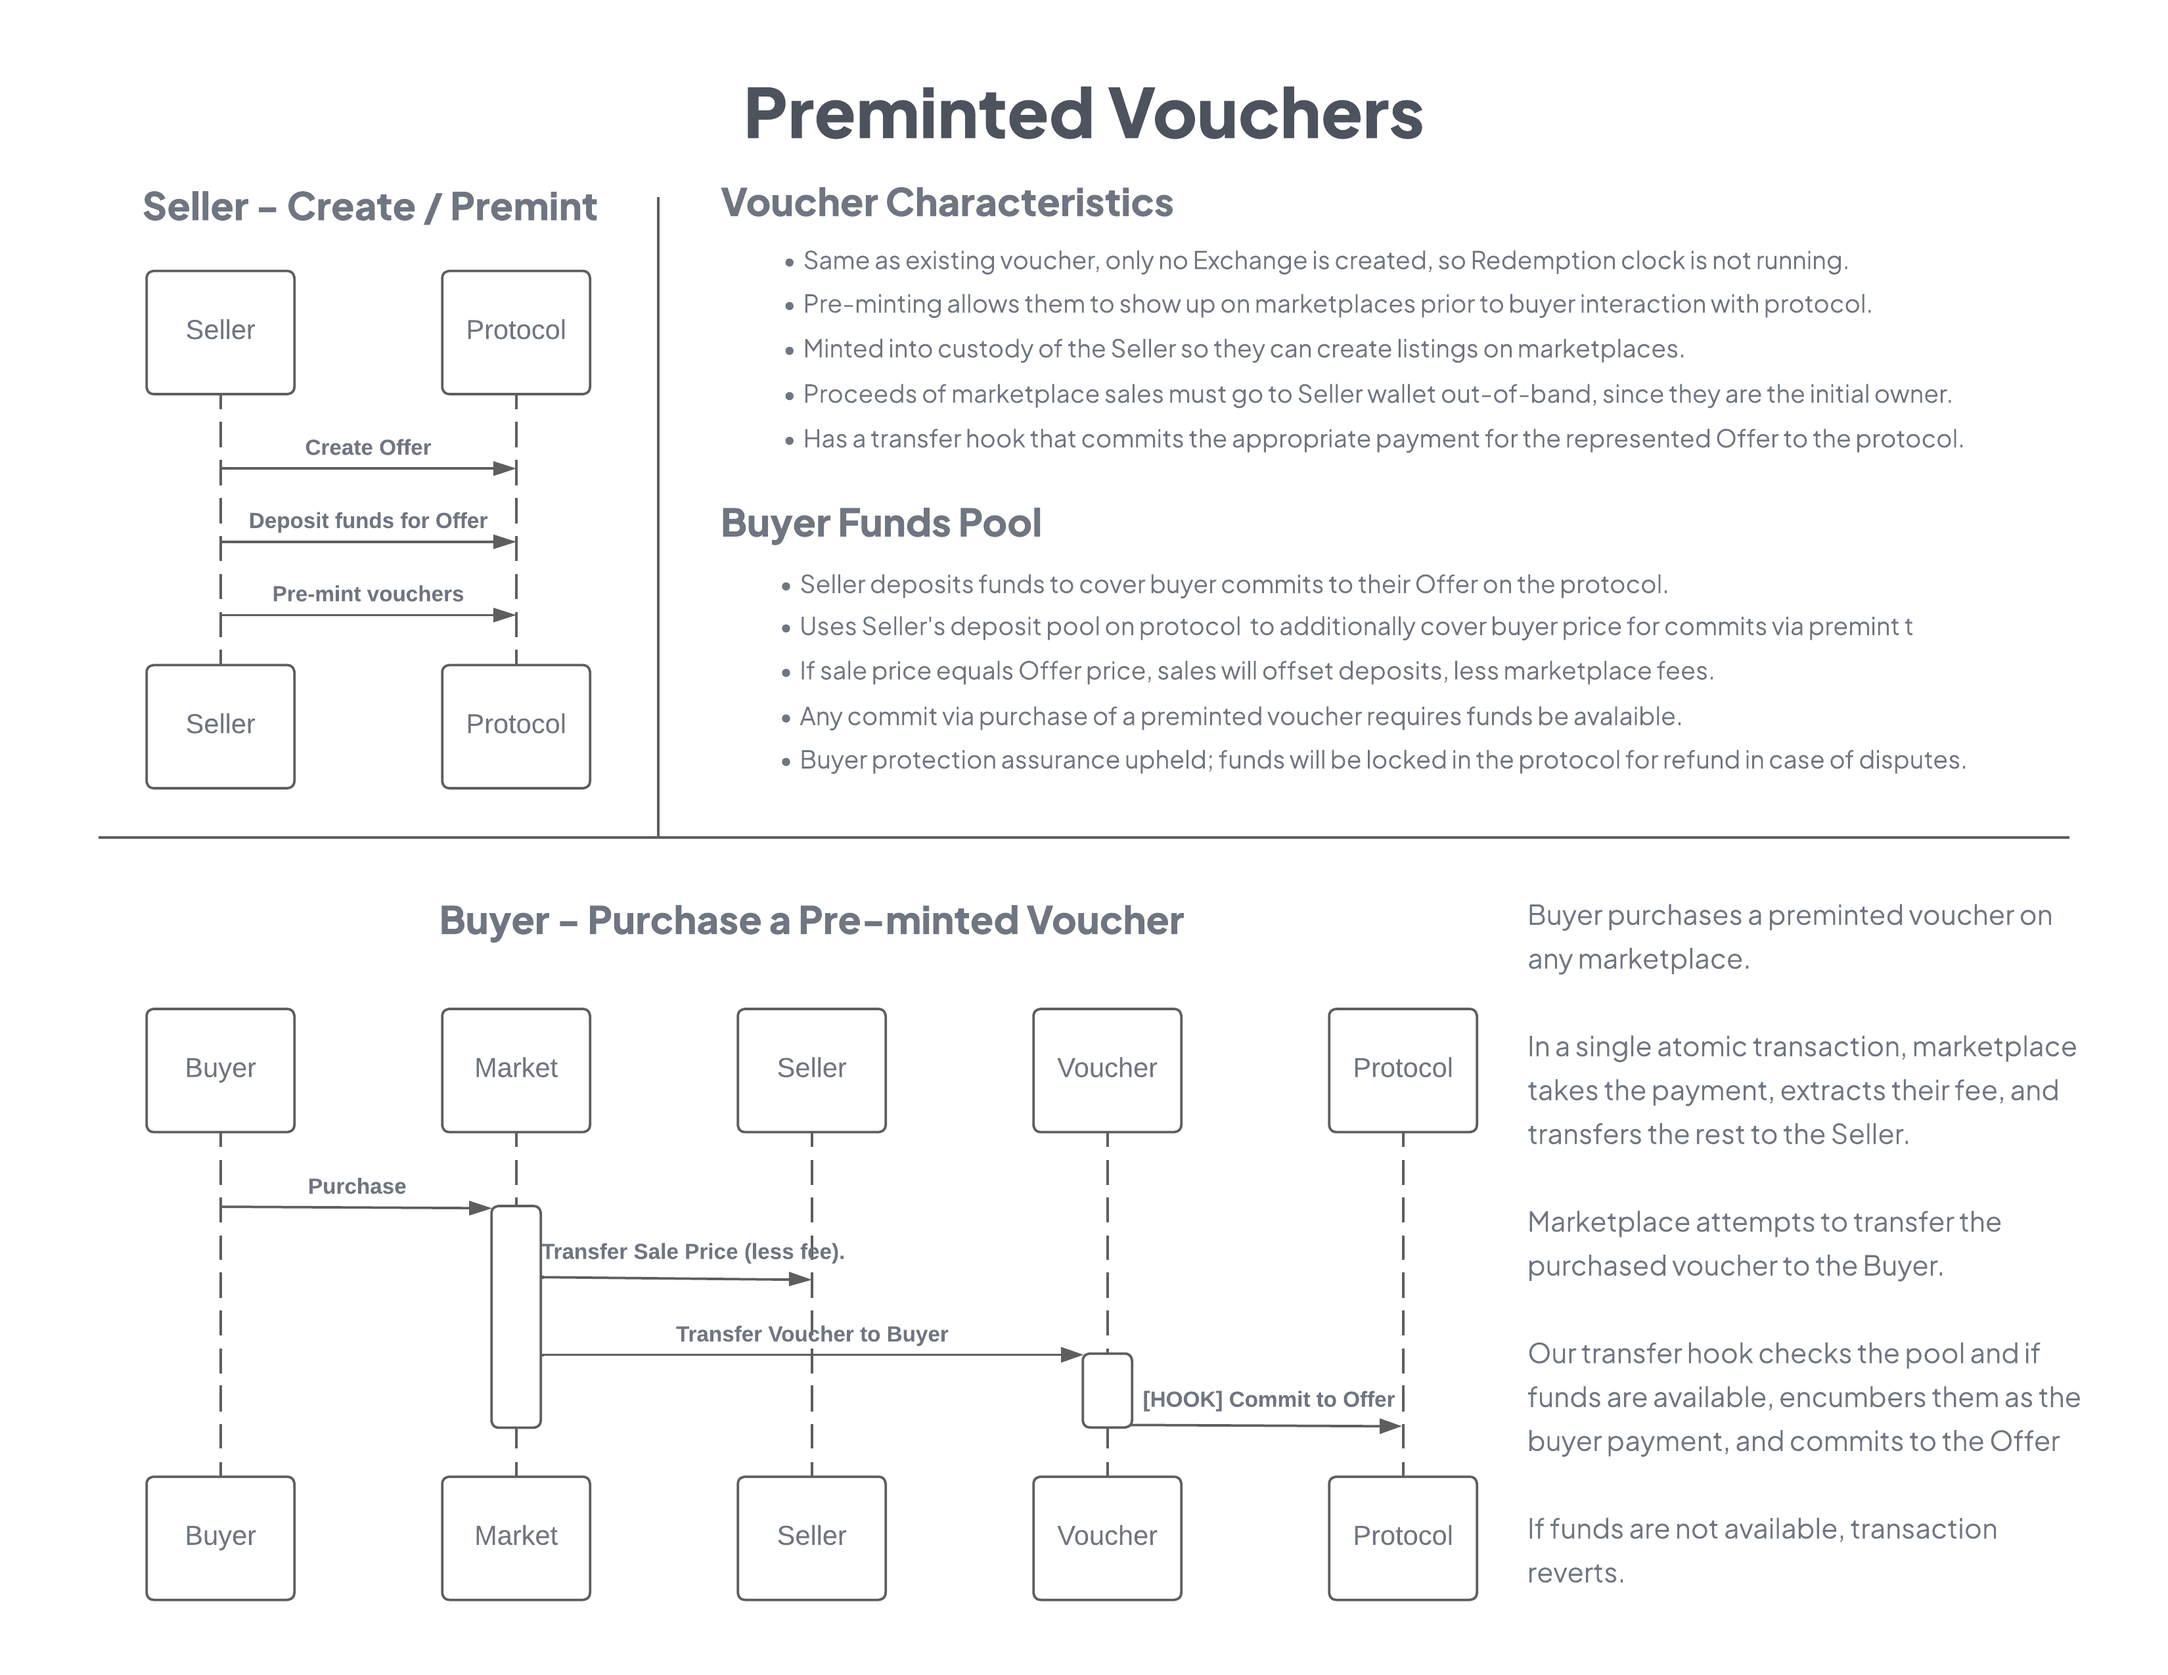
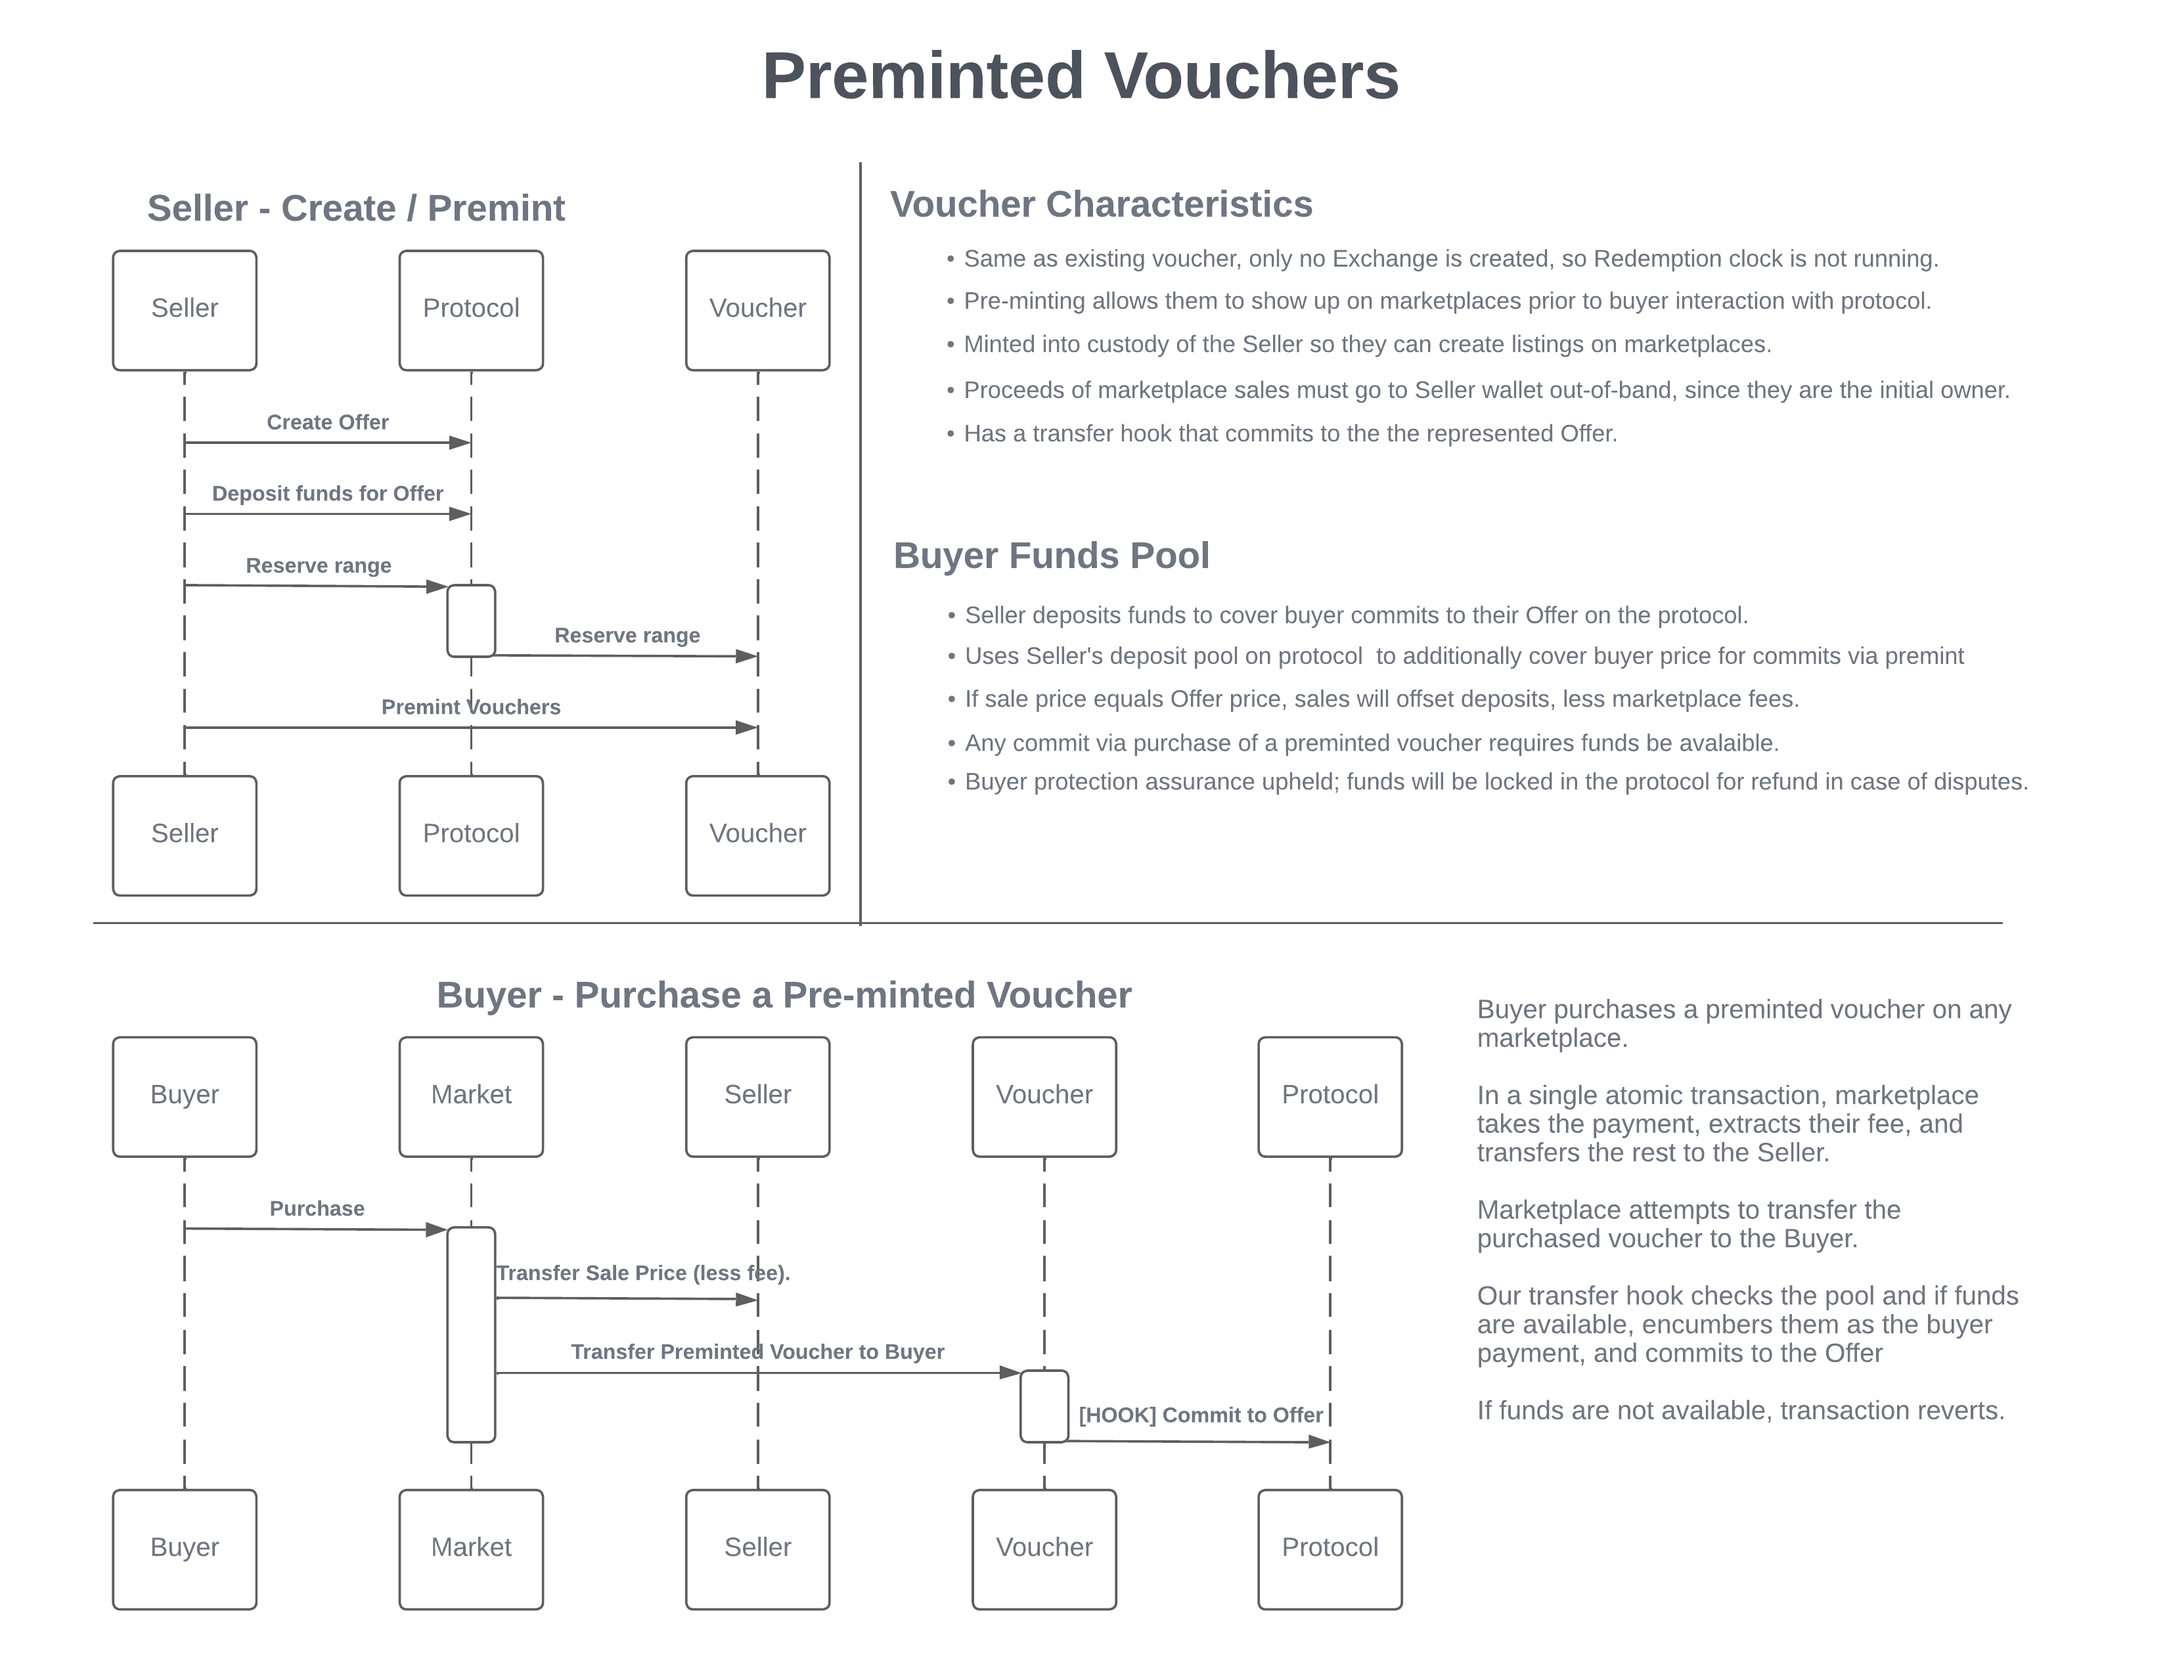
Implementation + diagram update

diff --git a/content/BPIP-3.md b/content/BPIP-3.md
@@ -27,7 +27,10 @@ The following methods are added.
      * Caller must have PROTOCOL role.
      *
      * Reverts if:
-     * - Start id is not greater than zero
+     * - Start id is not greater than zero for the first range
+     * - Start id is not greater than the end id of the previous range for subsequent ranges
+     * - Range length is zero
+     * - Range length is too large, i.e., would cause an overflow
      * - Offer id is already associated with a range
      *
      * @param _offerId - the id of the offer
@@ -146,6 +149,42 @@ The following method is added.
     ) external;
 ```
 
+#### IBosonOfferHandler
+The following method is added.
+```solidity
+    /**
+     * @notice Reserves a range of vouchers to be associated with an offer
+     *
+     *
+     * Reverts if:
+     * - The offers region of protocol is paused
+     * - The exchanges region of protocol is paused
+     * - Offer does not exist
+     * - Offer already voided
+     * - Caller is not the seller
+     * - Range length is zero
+     * - Range length is greater than quantity available
+     * - Range length is greater than maximum allowed range length
+     * - Call to BosonVoucher.reserveRange() reverts
+     *
+     * @param _offerId - the id of the offer
+     * @param _length - the length of the range
+     */
+    function reserveRange(uint256 _offerId, uint256 _length) external;
+```
+#### IBosonOrchestrationHandler
+For convenience, all orchestration methods that allow offer creation, get a counterpart method that allow range reservation at the same time. Seller needs to provide an additional input which tells how many vouchers can be preminted. New methods are
+These methods are not essential for this BPIP, so full specification is not provided. Revert reasons, events emitted and input parameters are union of revert reasons, events emitted and input parameters of base functions, combined in given orchestration function. List of suggested orchestration methods:
+- createSellerAndPremintedOffer
+- createPremintedOfferWithCondition
+- createPremintedOfferAddToGroup
+- createPremintedOfferAndTwinWithBundle
+- createPremintedOfferWithConditionAndTwinAndBundle
+- createSellerAndPremintedOfferWithCondition
+- createSellerAndPremintedOfferAndTwinWithBundle
+- createSellerAndPremintedOfferWithConditionAndTwinAndBundle
+
+
 ## Interactions 
 ![Pre-minted Vouchers Interactions Diagram](./assets/bpip-3/Preminted-Vouchers-Diagram.png "Pre-minted Voucher Sequences Diagram")
 
@@ -155,19 +194,47 @@ Several other potential implementations were considered and options analysis per
 ## Backward compatibility
 This specification does not break backward compatibility.
 
+Still it is important that when upgrade is done voucher contracts are upgraded before the protocol is upgraded.
+
 ## Implementation
 ### BosonVoucher
-* Support the tracking of reserved ranges so that exchange id and token id can remain the same.
-* Emit events that look as if vouchers have been minted, but don't store the owner address to conserve the bulk of an actual minting's gas. 
-* In the ownerOf method, if the token id is in a reserved range and has no stored owner, report the contract owner (the seller) as the owner of the voucher. 
-* Add a hook transfer hook that will detect if the voucher is being transferred to the first real owner, and if so, call the commitToPremintedOffer protocol method, which does not require payment.
+
+* Range reservation
+  * Must be done before preminting can happen.
+  * Ranges must be strictly increasing, i.e. start of new range must be greater than current highest range.
+  * Store information about associated offer id, range start and range length.
+  * The tracking of reserved ranges enables that exchange id (in protocol) and token id (voucher contract) can remain the same.
+* Preminting
+  * Can be done in batches. This allows to premint the quantites that could otherwise not be possible because of the block gas limit. Additionally it allows seller, to only partially release vouchers to the market.
+  * Preminting is always done to contract owner's address. It emits events that look as if vouchers have been minted, but don't store the owner address to conserve the bulk of an actual minting's gas. 
+* Token ownership
+  * Change ERC721 method `ownerOf`, so it properly reports the owner.
+  * If token id is in a reserved range, has already been preminted, but not yet transferred or burned, report the contract owner (the seller) as the owner of the voucher.
+  * In other cases return true owner if exists, or revert otherwise.
+* Preminted voucher transfer
+  * When preminted voucher is transferred for the first time, detect it in before transfer hook it and call the commitToPremintedOffer protocol method, which does not require payment.
+  * In all subsequent transfers, treat voucher as normal, i.e. call onVoucherTransferred protocol method.
+  * Since all inhered transfer methods (transferFrom and safeTranferFrom) revert if token id has no owner, it needs to be temporary updated whenever first transfer of preminted voucher.
+* Burn preminted vouchers
+  * Preminted vouchers can be burned when offer expires or is voided.
+  * Burning allows owner to removed unusable vouchers from their wallet.
+
 * Implemented [here](https://github.com/bosonprotocol/boson-protocol-contracts/pull/483).
 
+
 ### Protocol
+Offer creation remains the same as it was in previous versions. To enable preminted vouchers for an offer, seller just needs to call reserveRange method in the protocol, which effectively converts offer into a (partially) preminted offer.
+Offer can be
+  - fully preminted: reserved range matches initial quantity available. It makes it impossible to commit to offer directly.
+  - partially preminted: reserved range is less than quantity available. It is possible to commit to offer directly on the protocol or through primary transfer of a preminted voucher.
+  - not preminted: there is no reserved range for the offer. The only way to commit is directly on the protocol (same as in current version of the protocol).
+
+Reserve range can be called once per offer, so seller must in advandce decide how may vouchers can be preminted. Reserve range accepts only offer id and range length, while range start is determined based on current exchange id. Calling reserve range decreases quantity available and increases exchange id counter in the protocol. This means than it is now possible that exchange with higher id is created before the exchange with lower id.
+
+Decission if offer will support preminted vouchers or not does not need to be decided at offer creation time. Even is some user already commit to an offer, seller can reserve a range, as long as quantity available is greater than 0.
+If a seller wants to create an offer and reserve range in single transaction, they can use orchestration methods that enable it.
+
 * Implemented [here](https://github.com/bosonprotocol/boson-protocol-contracts/pull/490).
-
-### Discussion
-* Discussed [here](https://github.com/bosonprotocol/BPIPs/issues/3).
-
+  
 ## Copyright waiver & license
 Copyright and related rights waived via [CC0](https://creativecommons.org/publicdomain/zero/1.0/).
